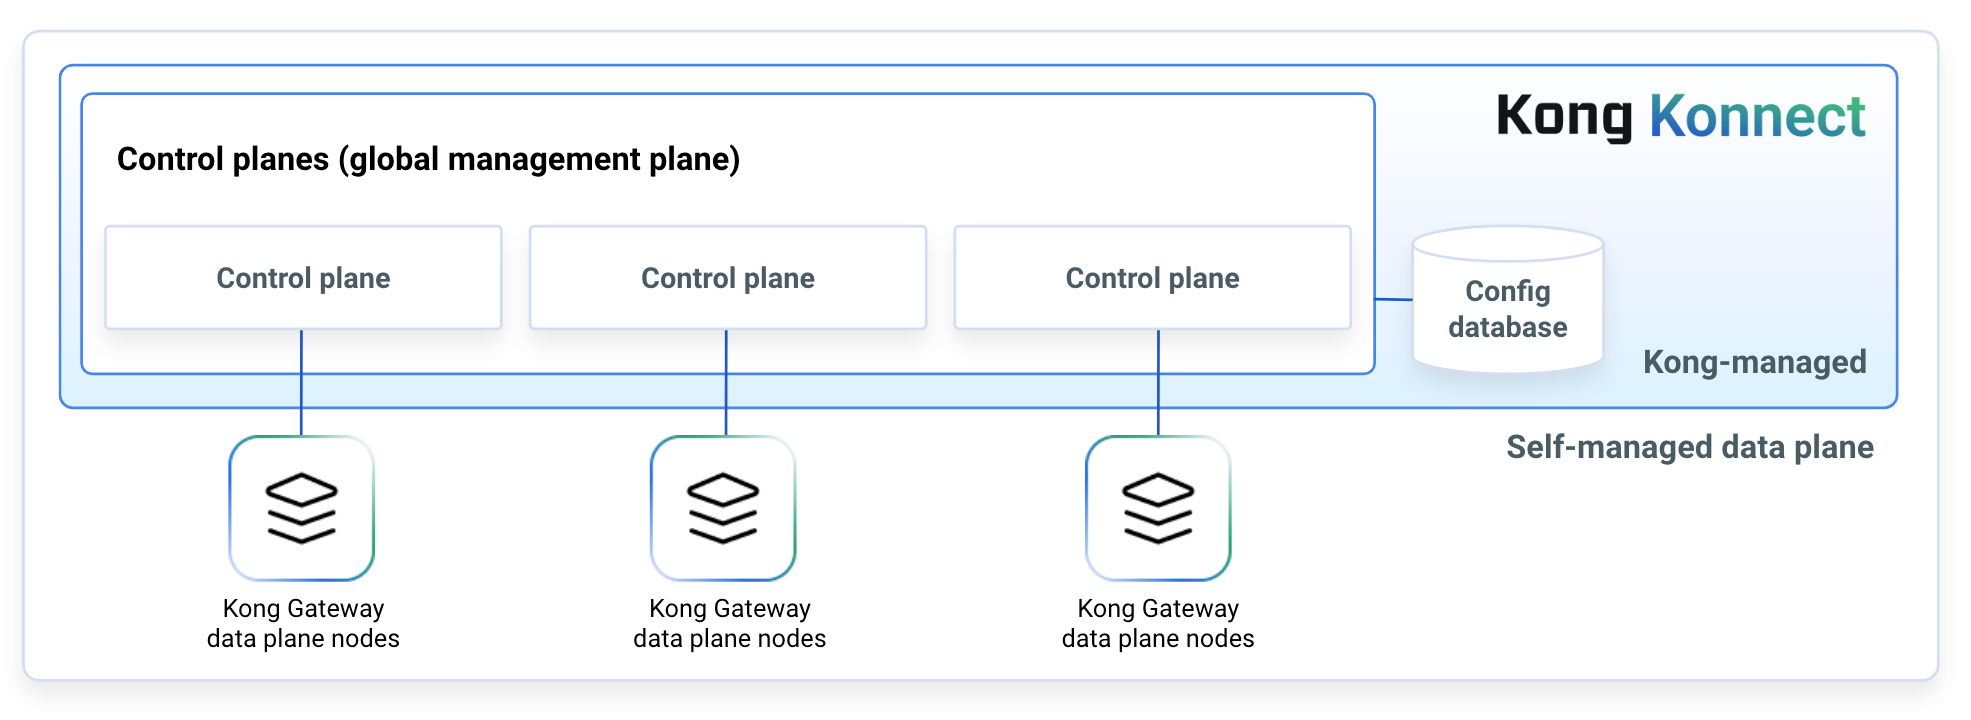
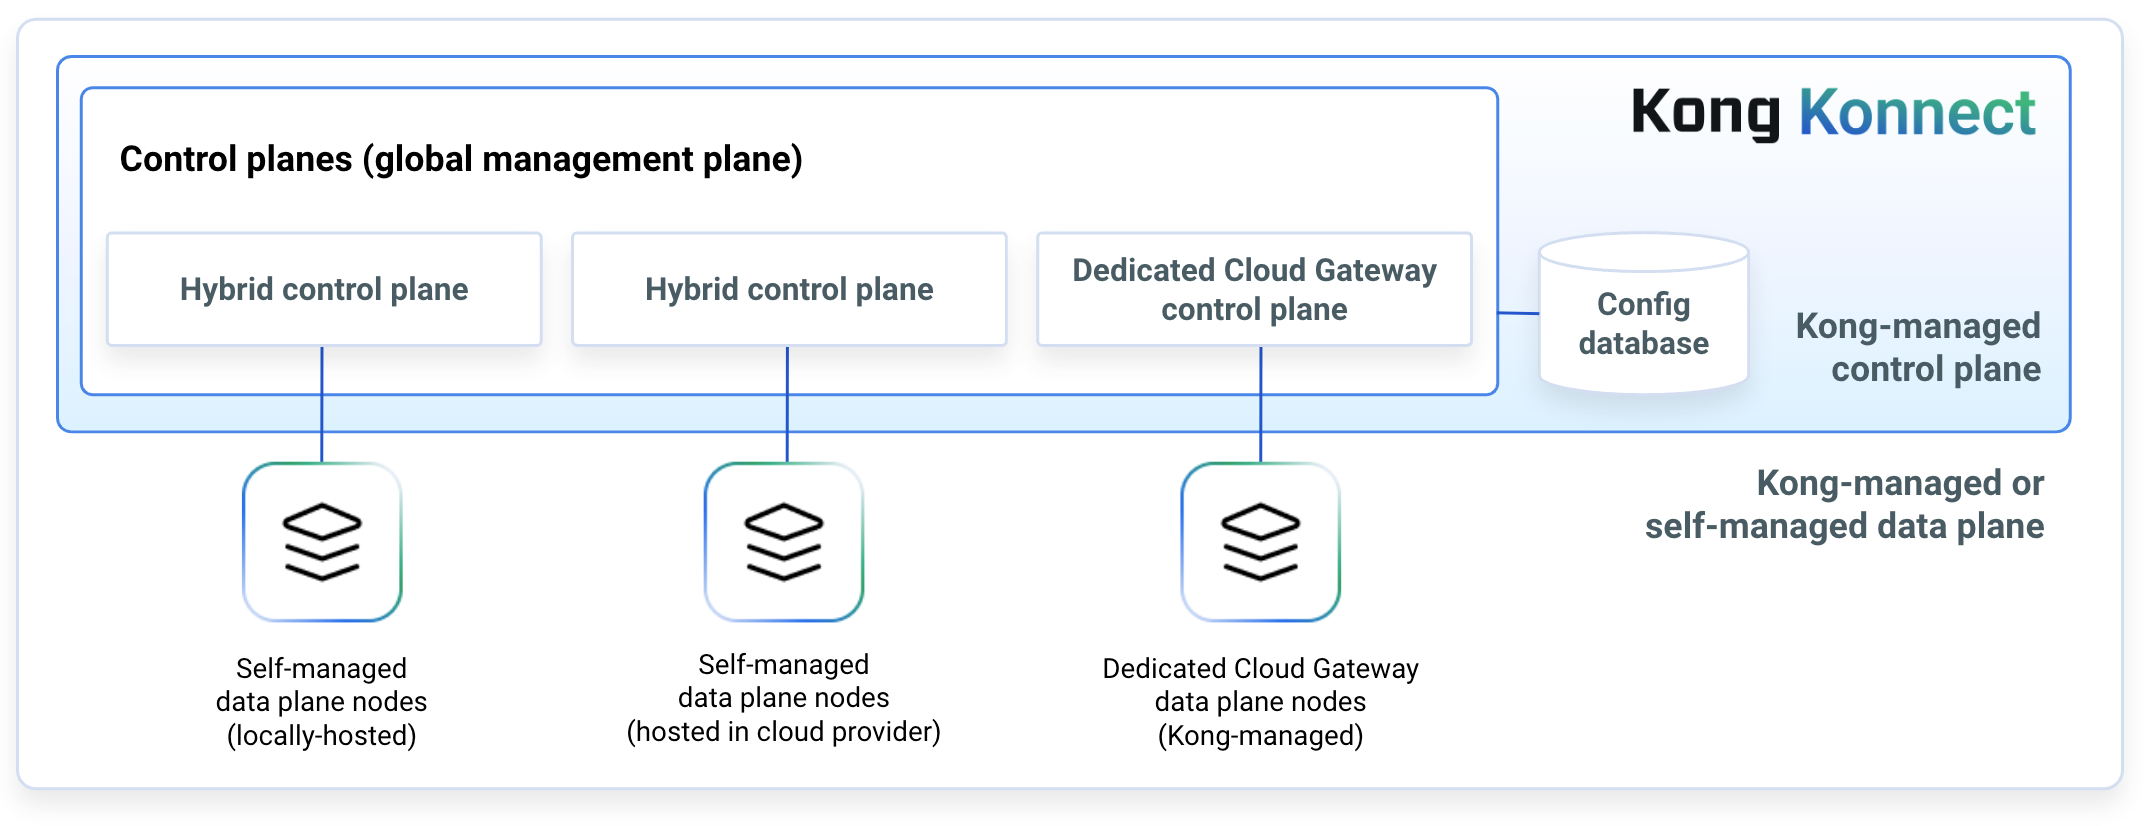
update diagrams for cloud gateways

Changed region(s): [[0.0, 0.0306, 0.9904, 0.7639], [0.0, 0.7944, 0.9904, 0.9472]]

diff --git a/app/konnect/gateway-manager/index.md b/app/konnect/gateway-manager/index.md
@@ -60,7 +60,7 @@ Every region in every organization starts with one default control plane.
 This control plane can't be deleted, and its status as the default can't be changed.
 
 With {{site.konnect_short_name}} you can configure additional {{site.base_gateway}}
-control panes, each of which will have isolated configuration.
+control planes, each of which will have isolated configuration.
 Use multiple control planes in one {{site.konnect_short_name}} organization to
 manage data plane nodes and their configuration in any groupings you want.
 
@@ -72,9 +72,35 @@ development, staging, and production.
 regions. Spin up data plane nodes in those regions for each control plane.
 * **Team separation:** Dedicate each control plane to a different team and share
 resources based on team purpose.
+* **Resource hosting and management separation**: Run a hybrid control plane with 
+self-hosted data plane nodes, and a separate Dedicated Cloud Gateway control 
+plane with Kong-managed nodes.
 
-![control planes](/assets/images/products/konnect/gateway-manager/konnect-control-planes-example.png)
-> _**Figure 1:** Example control plane group configuration for three control planes: the default, a development CP, and a production CP. {{site.konnect_short_name}} is the SaaS-managed global management plane that manages all of the control planes, while the control planes manage configuration for data plane nodes._
+<!--vale off-->
+{% mermaid %}
+flowchart TD
+A(Hybrid control plane)
+B(Dedicated Cloud Gateway \n control plane)
+C(<img src="/assets/images/logos/KogoBlue.svg" style="max-height:20px" class="no-image-expand"/> Self-managed \n data plane nodes \n #40;locally-hosted#41;)
+D(<img src="/assets/images/logos/KogoBlue.svg" style="max-height:20px" class="no-image-expand"/> Self-managed \n data plane nodes \n #40;hosted in cloud provider#41;)
+E(<img src="/assets/images/logos/KogoBlue.svg" style="max-height:20px" class="no-image-expand"/> Dedicated Cloud Gateway \n data plane nodes \n #40;Kong-managed#41;)
+
+subgraph id1 [Konnect]
+A
+B
+end
+
+A --proxy configuration---> C & D
+B --proxy configuration---> E
+
+style id1 stroke-dasharray:3,rx:10,ry:10
+style A stroke:none,fill:#0E44A2,color:#fff
+style B stroke:none,fill:#0E44A2,color:#fff
+
+{% endmermaid %}
+<!--vale on-->
+
+> _**Figure 2:** Example control plane group configuration for two control planes: a hybrid control plane and a Dedicated Cloud Gateway control plane. {{site.konnect_short_name}} is the SaaS-managed global management plane that manages all of the control planes, while the control planes manage configuration for data plane nodes._
 
 #### Control plane configuration
 

diff --git a/app/_includes/md/gateway/deployment-topologies.md b/app/_includes/md/gateway/deployment-topologies.md
@@ -16,11 +16,11 @@ end
 id1 --Kong proxy 
 configuration---> id2 & id3
 
-subgraph id2 [Self-managed on-premise node]
+subgraph id2 [Kong-managed cloud node]
 C
 end
 
-subgraph id3 [Self-managed cloud nodes]
+subgraph id3 [Self-managed local and cloud nodes]
 D
 E
 end
